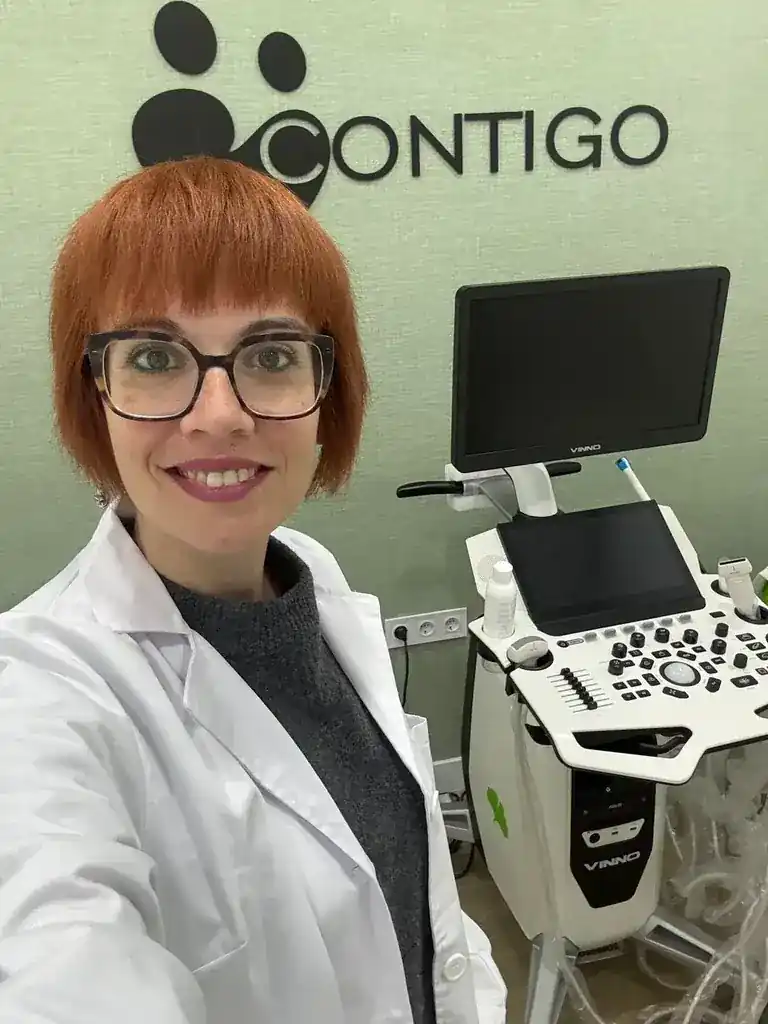
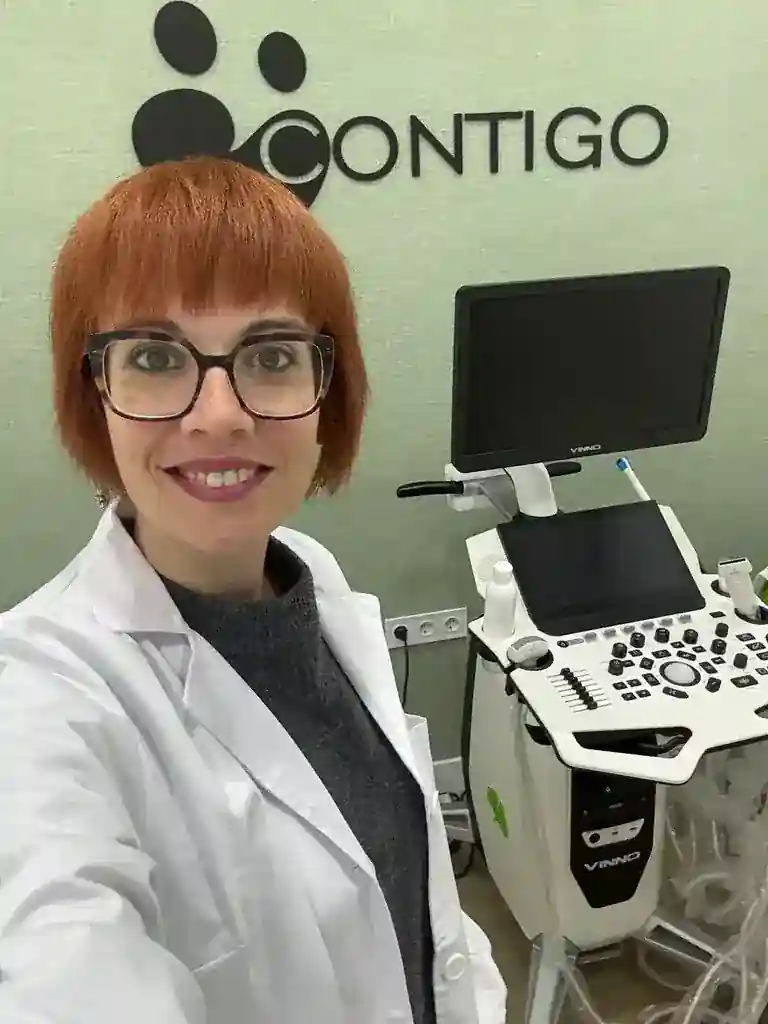
Recomprimir hero-768.webp para reducir 27 KB (PageSpeed)
- hero-768.webp: 36.4 KB → 20.5 KB (43.5% de ahorro)
- CSS version bump a v=2.0 para invalidar caché

Changed region(s): [[0.8438, 0.625, 0.9375, 0.6562], [0.9688, 0.625, 1.0, 0.6562], [0.3438, 0.1562, 0.375, 0.1875]]

diff --git a/landing-page/index.html b/landing-page/index.html
@@ -174,8 +174,8 @@
     <noscript><link rel="stylesheet" href="css/fonts.css"></noscript>
     
     <!-- Stylesheets - non-render-blocking -->
-    <link rel="preload" href="css/styles.css?v=1.9" as="style" onload="this.onload=null;this.rel='stylesheet'">
-    <noscript><link rel="stylesheet" href="css/styles.css?v=1.9"></noscript>
+    <link rel="preload" href="css/styles.css?v=2.0" as="style" onload="this.onload=null;this.rel='stylesheet'">
+    <noscript><link rel="stylesheet" href="css/styles.css?v=2.0"></noscript>
     
     <!-- Critical CSS (inline for faster rendering) -->
     <style>
